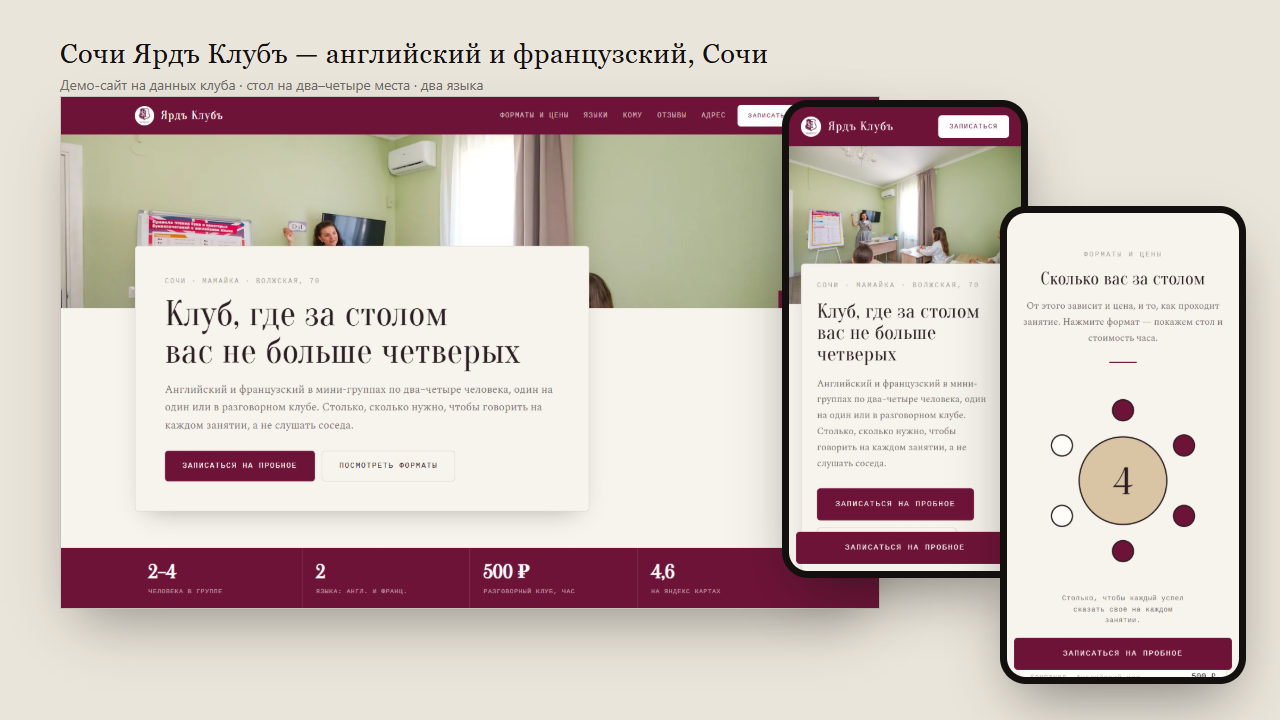
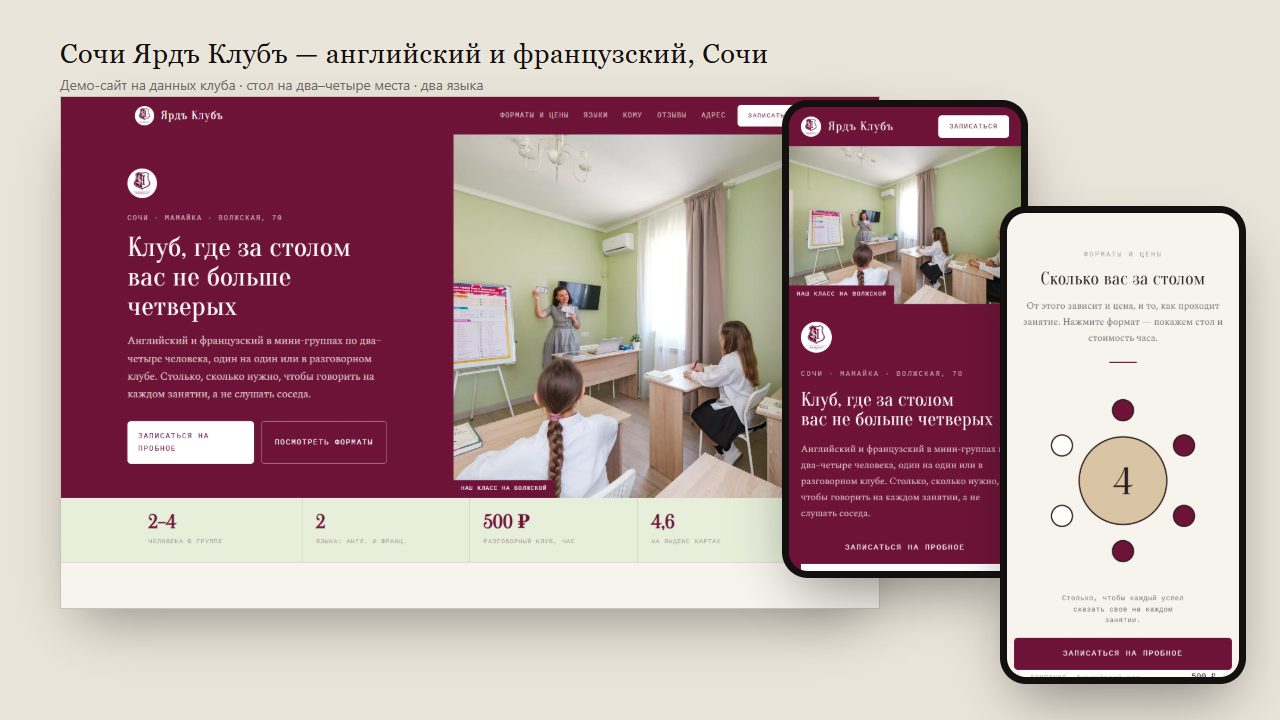
Пересобрать первый экран Ярдъ Клуба: цветной блок и фотография рядом
На широком экране прошлая версия разваливалась: полоса фото высотой
360 px, поверх неё карточка на 800 px — от снимка оставались потолок
и кусок стены, а учениц, ради которых кадр и снят, обрезало.

Схема другая: слева сплошной блок фирменного бордового с гербом,
заголовком и кнопками, справа фотография во всю высоту. Текст и снимок
больше не пересекаются — читаемость не зависит от того, что попало
в кадр, а кадру достаётся половина экрана.

Заодно: текстовый блок центрируется внутри панели и держит меру строки
(выравнивание по контейнеру страницы зажимало его до 470 px и ломало
заголовок на пять строк), кегль заголовка 50 px, кнопки делят строку
поровну. Лента фактов переведена с бордового на фисташковую полосу —
под бордовым блоком две одноцветные полосы сливались в стену.

На телефоне порядок обратный: сначала комната, потом предложение.

diff --git a/yardclub/assets/css/style.css b/yardclub/assets/css/style.css
@@ -59,7 +59,7 @@ section { padding-block: var(--step); }
 /* ---------- типографика ---------- */
 
 h1, h2, h3 { font-family: var(--display); font-weight: 400; margin: 0; line-height: 1.06; }
-h1 { font-size: clamp(34px, 4.6vw, 62px); letter-spacing: .01em; }
+h1 { font-size: clamp(32px, 3.4vw, 50px); letter-spacing: .01em; }
 h2 { font-size: clamp(30px, 4.4vw, 54px); letter-spacing: .01em; }
 h3 { font-size: clamp(21px, 2.4vw, 27px); }
 .accent { color: var(--wine); }
@@ -97,6 +97,10 @@ h3 { font-size: clamp(21px, 2.4vw, 27px); }
 .btn-solid:hover { background: var(--wine-deep); }
 .btn-line { background: transparent; color: var(--ink); border-color: var(--rule); }
 .btn-line:hover { border-color: var(--wine); color: var(--wine); }
+.btn-light { background: #fff; color: var(--wine); }
+.btn-light:hover { background: var(--band); }
+.btn-ghost { background: transparent; color: #fff; border-color: rgba(255, 255, 255, .45); }
+.btn-ghost:hover { border-color: #fff; background: rgba(255, 255, 255, .12); }
 .btn-block { width: 100%; }
 .btn:focus-visible { outline: 2px solid var(--gold); outline-offset: 3px; }
 
@@ -114,51 +118,67 @@ h3 { font-size: clamp(21px, 2.4vw, 27px); }
 .hdr .btn:hover { background: var(--band); }
 @media (max-width: 980px) { .nav { display: none; } }
 
-/* ---------- первый экран: фотография и карточка поверх ---------- */
-/* Белый текст прямо на снимке читался мутно: класс светлый, за спиной
-   окно и зелёная стена. Поэтому текст живёт на плотной карточке, а
-   фотография остаётся полосой во всю ширину — композиция сохраняется,
-   читаемость перестаёт зависеть от того, что попало в кадр. */
+/* ---------- первый экран: цветной блок и фотография рядом ----------
+   Прошлые две версии клали текст на снимок — и белым по светлой стене,
+   и карточкой поверх. На широком экране фотография сжималась в полоску,
+   а учениц, ради которых кадр и снят, обрезало. Здесь текст и снимок
+   не пересекаются вовсе: слева сплошной блок фирменного бордового,
+   справа фотография во всю высоту. Читаемость перестаёт зависеть
+   от кадра, а кадру достаётся половина экрана. */
 
-.hero { padding: 0; }
+.hero {
+  display: grid;
+  grid-template-columns: minmax(0, 48fr) minmax(0, 52fr);
+  min-height: min(76vh, 640px);
+  padding: 0;
+}
+.hero-panel { background: var(--wine); color: #fff; display: flex; align-items: center; }
+/* Блок центрируется внутри панели и держит меру строки: выравнивание
+   по контейнеру страницы зажимало его до 470 px на широком экране,
+   и заголовок ломался на пять строк. */
+.hero-panel-in {
+  width: min(100%, 34rem);
+  margin-inline: auto;
+  padding: clamp(36px, 4vw, 60px) clamp(24px, 3vw, 44px);
+}
+.hero-crest {
+  width: 52px; height: 52px; object-fit: contain;
+  background: #fff; border-radius: 50%; padding: 5px; margin-bottom: 26px;
+}
+.hero .eyebrow { color: rgba(255, 255, 255, .62); }
+.hero h1 { color: #fff; margin-bottom: 20px; }
+.hero-sub { font-size: clamp(16px, 1.6vw, 18.5px); color: rgba(244, 236, 228, .82); margin: 0 0 32px; }
+/* Кнопки делят строку поровну: при разной ширине они вставали
+   лесенкой и первый экран выглядел неаккуратно. */
+.hero-cta { display: flex; gap: 12px; flex-wrap: wrap; }
+.hero-cta .btn { flex: 1 1 190px; padding-inline: 18px; }
 
-.hero-photo { position: relative; height: clamp(210px, 34vh, 360px); overflow: hidden; }
-.hero-photo img { width: 100%; height: 100%; object-fit: cover; object-position: center 38%; }
-.hero-cap {
-  position: absolute; right: 0; bottom: 0;
+.hero-photo { position: relative; margin: 0; overflow: hidden; }
+.hero-photo img { width: 100%; height: 100%; object-fit: cover; object-position: 58% 42%; }
+.hero-photo figcaption {
+  position: absolute; left: 0; bottom: 0;
   background: var(--wine); color: #fff;
   font-family: var(--mono); font-size: 10px; letter-spacing: .12em;
   text-transform: uppercase; padding: 7px 13px;
 }
 
-/* На узком экране карточка наезжает на подпись — прячем её:
-   адрес и так стоит рубрикой в самой карточке. */
-@media (max-width: 760px) { .hero-cap { display: none; } }
-
-.hero-card {
-  position: relative;
-  margin-top: clamp(-110px, -8vw, -68px);
-  margin-bottom: clamp(40px, 5vw, 64px);
-  background: var(--paper);
-  border: 1px solid var(--rule);
-  border-radius: var(--r);
-  padding: clamp(26px, 3.6vw, 52px);
-  max-width: 800px;
-  box-shadow: 0 18px 44px -22px rgba(42, 28, 34, .38);
+@media (max-width: 900px) {
+  .hero { grid-template-columns: 1fr; min-height: 0; }
+  /* Сначала комната, потом предложение: снимок работает крючком,
+     а кнопки остаются близко к началу страницы. */
+  .hero-photo { order: -1; height: clamp(200px, 34vh, 300px); }
+  .hero-panel-in { padding: clamp(30px, 6vw, 44px) var(--gutter); max-width: none; }
 }
-.hero-card h1 { margin-bottom: 18px; }
-.hero-sub { font-size: clamp(16px, 1.7vw, 19px); color: var(--ink-60); margin: 0 0 28px; }
-.hero-cta { display: flex; gap: 12px; flex-wrap: wrap; }
 
 /* ---------- лента фактов ---------- */
 
-.strip { background: var(--wine); color: #f4ece4; padding-block: 0; }
+.strip { background: var(--band); color: var(--ink); padding-block: 0; border-bottom: 1px solid var(--rule); }
 .strip-in { display: flex; flex-wrap: wrap; }
-.strip-i { flex: 1 1 200px; padding: 26px 24px; border-right: 1px solid rgba(255,255,255,.16); }
+.strip-i { flex: 1 1 200px; padding: 26px 24px; border-right: 1px solid rgba(42,28,34,.14); }
 .strip-i:last-child { border-right: 0; }
-.strip-i b { display: block; font-family: var(--display); font-size: clamp(26px, 3.2vw, 34px); color: #fff; line-height: 1; }
-.strip-i span { display: block; font-family: var(--mono); font-size: 10.5px; letter-spacing: .13em; text-transform: uppercase; color: rgba(244,236,228,.6); margin-top: 9px; }
-@media (max-width: 640px) { .strip-i { flex-basis: 50%; border-bottom: 1px solid rgba(255,255,255,.16); } }
+.strip-i b { display: block; font-family: var(--display); font-size: clamp(26px, 3.2vw, 34px); color: var(--wine); line-height: 1; }
+.strip-i span { display: block; font-family: var(--mono); font-size: 10.5px; letter-spacing: .13em; text-transform: uppercase; color: var(--ink-40); margin-top: 9px; }
+@media (max-width: 640px) { .strip-i { flex-basis: 50%; border-bottom: 1px solid rgba(42,28,34,.14); } }
 
 /* ---------- подпись проекта: клубный стол ---------- */
 

diff --git a/yardclub/index.html b/yardclub/index.html
@@ -49,17 +49,9 @@
 
   <!-- ═══ ПЕРВЫЙ ЭКРАН: ФОТО ВО ВСЮ ШИРИНУ ═══ -->
   <section class="hero">
-    <div class="hero-photo">
-      <picture>
-        <source srcset="assets/photo/lesson.webp" type="image/webp">
-        <img src="assets/photo/lesson.jpg" width="1600" height="1067"
-             alt="Занятие в Ярдъ Клубе: три ученицы за отдельными столами и преподаватель с карточками">
-      </picture>
-      <span class="hero-cap">Наш класс на Волжской</span>
-    </div>
-
-    <div class="wrap">
-      <div class="hero-card">
+    <div class="hero-panel">
+      <div class="hero-panel-in">
+        <img class="hero-crest" src="assets/photo/crest.webp" alt="" width="52" height="52">
         <p class="eyebrow">Сочи · Мамайка · Волжская, 70</p>
         <h1>Клуб, где за столом<br>вас не больше четверых</h1>
         <p class="hero-sub">
@@ -68,11 +60,20 @@
           чтобы говорить на каждом занятии, а не слушать соседа.
         </p>
         <div class="hero-cta">
-          <a class="btn btn-solid" href="#book">Записаться на пробное</a>
-          <a class="btn btn-line" href="#table">Посмотреть форматы</a>
+          <a class="btn btn-light" href="#book">Записаться на пробное</a>
+          <a class="btn btn-ghost" href="#table">Посмотреть форматы</a>
         </div>
       </div>
     </div>
+
+    <figure class="hero-photo">
+      <picture>
+        <source srcset="assets/photo/lesson.webp" type="image/webp">
+        <img src="assets/photo/lesson.jpg" width="1600" height="1067"
+             alt="Занятие в Ярдъ Клубе: три ученицы за отдельными столами и преподаватель с карточками">
+      </picture>
+      <figcaption>Наш класс на Волжской</figcaption>
+    </figure>
   </section>
 
   <!-- ═══ ЛЕНТА ФАКТОВ ═══ -->
